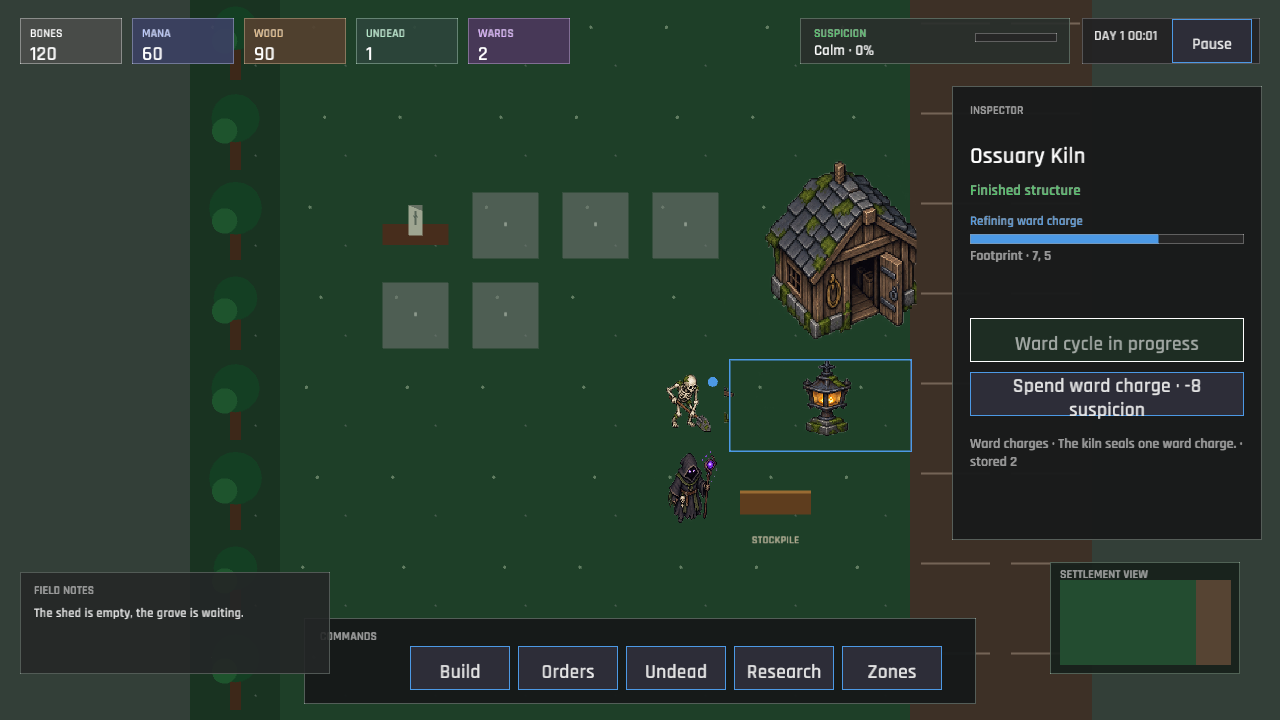
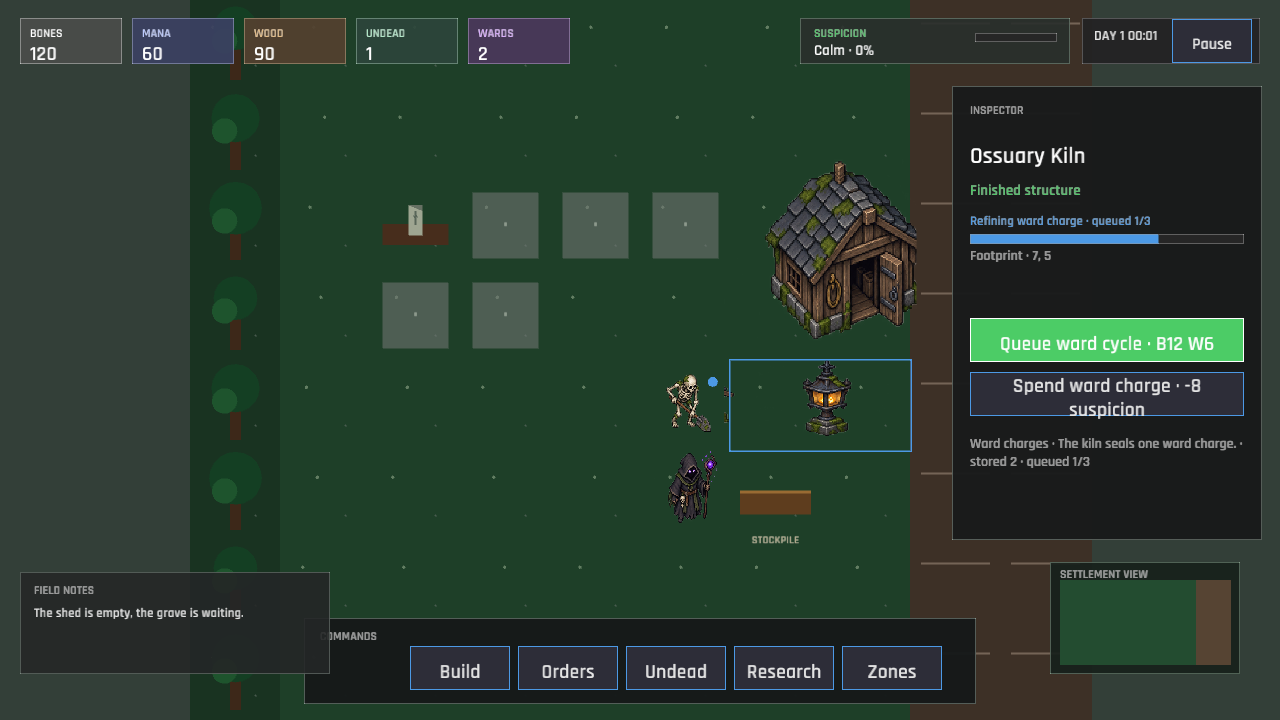
The kiln keeps a quiet queue beneath the cemetery lights (ward production queue, Ossuary Logistics)
A single kiln cycle gave Ossuary Logistics a one-click production action but no reason to remain at the workbench. Add a three-cycle reservation queue that removes bones and wood when each follow-up is committed, then rolls the worker directly into the next cycle when the current charge is sealed.

The kiln inspector now shows queued n/3, offers a touch-sized queue action while production is running, and continues to expose ward-charge spending as a suspicion response. Save defaults preserve the queue shape for existing cemeteries, and tests cover automatic rollover plus the full-queue no-spend invariant.

cargo fmt, cargo test (34 tests), strict Clippy, diff checks, production capture, and the default Windows/WebGL publisher pass. Preview deployment and catalog sync complete; the optional local Project Roost tracking endpoint still refuses its connection.

Changed region(s): [[0.75, 0.4278, 0.9688, 0.5194], [0.8438, 0.3056, 0.9062, 0.3361], [0.8125, 0.6111, 0.8438, 0.6722]]

diff --git a/src/engine/progression.rs b/src/engine/progression.rs
@@ -7,6 +7,8 @@ use crate::state::{
 };
 use macroquad_toolkit::grid::TilePos;
 
+pub const MAX_PRODUCTION_QUEUE: usize = 3;
+
 pub fn queue_building(
     session: &mut GameSession,
     data: &GameData,
@@ -177,14 +179,16 @@ pub fn start_production(
     if !session.has_building(kind) {
         return Err("The kiln must be complete before it can refine wards.".to_owned());
     }
-    if session.progress.production.is_some() {
-        return Err("The ossuary kiln is already refining a ward.".to_owned());
-    }
     let recipe = data
         .buildings
         .get(kind.id())
         .and_then(|building| building.production.as_ref())
         .ok_or_else(|| "That structure has no production recipe.".to_owned())?;
+    if session.progress.production.is_some()
+        && session.progress.production_queue >= MAX_PRODUCTION_QUEUE
+    {
+        return Err("The kiln's ward queue is full.".to_owned());
+    }
     if session.economy.bones < recipe.bones_cost || session.economy.wood < recipe.wood_cost {
         return Err(format!(
             "Need {} bones and {} wood to load the kiln.",
@@ -193,11 +197,16 @@ pub fn start_production(
     }
     session.economy.bones -= recipe.bones_cost;
     session.economy.wood -= recipe.wood_cost;
-    session.progress.production = Some(ProductionOrder {
-        building: kind,
-        progress: 0.0,
-    });
-    session.add_feed("The Ossuary Kiln is loaded; assign a worker to Refine Wards.");
+    if session.progress.production.is_some() {
+        session.progress.production_queue += 1;
+        session.add_feed("Another ward cycle is reserved in the kiln.");
+    } else {
+        session.progress.production = Some(ProductionOrder {
+            building: kind,
+            progress: 0.0,
+        });
+        session.add_feed("The Ossuary Kiln is loaded; assign a worker to Refine Wards.");
+    }
     Ok(())
 }
 
@@ -214,10 +223,25 @@ pub fn advance_production(session: &mut GameSession, data: &GameData, dt: f32) -
         return None;
     }
     session.economy.ward_charges += recipe.output_amount;
-    session.progress.production = None;
+    let next_cycle = session.progress.production_queue > 0;
+    if next_cycle {
+        session.progress.production_queue -= 1;
+        session.progress.production = Some(ProductionOrder {
+            building: order.building,
+            progress: 0.0,
+        });
+    } else {
+        session.progress.production = None;
+    }
     let message = format!(
-        "{} Ward charge ready. {}",
-        recipe.output_amount, recipe.effect_text
+        "{} Ward charge ready. {}{}",
+        recipe.output_amount,
+        recipe.effect_text,
+        if next_cycle {
+            " Next reserved cycle begins."
+        } else {
+            ""
+        }
     );
     session.add_feed(message.clone());
     Some(message)

diff --git a/src/ui/hud.rs b/src/ui/hud.rs
@@ -555,7 +555,11 @@ fn draw_building_inspector(
                 .and_then(|def| def.production.as_ref())
                 .map_or(8.0, |recipe| recipe.seconds);
             draw_text_block(
-                "Refining ward charge",
+                &format!(
+                    "Refining ward charge · queued {}/{}",
+                    ctx.session.progress.production_queue,
+                    crate::engine::progression::MAX_PRODUCTION_QUEUE
+                ),
                 panel.x + 18.0,
                 panel.y + 126.0,
                 panel.w - 36.0,
@@ -630,16 +634,24 @@ fn draw_building_inspector(
                 .production
                 .as_ref()
                 .is_some_and(|order| order.building == building.kind);
+            let queued = ctx.session.progress.production_queue;
             let label = if active {
-                "Ward cycle in progress".to_owned()
+                if queued < crate::engine::progression::MAX_PRODUCTION_QUEUE {
+                    format!(
+                        "Queue ward cycle · B{} W{}",
+                        recipe.bones_cost, recipe.wood_cost
+                    )
+                } else {
+                    "Ward queue full".to_owned()
+                }
             } else {
                 format!("Load kiln · B{} W{}", recipe.bones_cost, recipe.wood_cost)
             };
             if virtual_button(
                 Rect::new(panel.x + 18.0, panel.y + 232.0, panel.w - 36.0, 44.0),
                 &label,
-                !active
-                    && ctx.session.phase == GamePhase::Playing
+                ctx.session.phase == GamePhase::Playing
+                    && queued < crate::engine::progression::MAX_PRODUCTION_QUEUE
                     && ctx.session.economy.bones >= recipe.bones_cost
                     && ctx.session.economy.wood >= recipe.wood_cost,
                 ButtonTone::Positive,
@@ -658,8 +670,11 @@ fn draw_building_inspector(
             }
             draw_text_block(
                 &format!(
-                    "Ward charges · {} · stored {}",
-                    recipe.effect_text, ctx.session.economy.ward_charges
+                    "Ward charges · {} · stored {} · queued {}/{}",
+                    recipe.effect_text,
+                    ctx.session.economy.ward_charges,
+                    queued,
+                    crate::engine::progression::MAX_PRODUCTION_QUEUE
                 ),
                 panel.x + 18.0,
                 panel.y + 348.0,

diff --git a/src/engine/progression/tests.rs b/src/engine/progression/tests.rs
@@ -120,3 +120,42 @@ fn buildings_cannot_cover_graves_or_the_forest_edge() {
     )
     .is_err());
 }
+
+#[test]
+fn kiln_queue_rolls_into_the_next_reserved_cycle() {
+    let data = crate::data::GameData::load().unwrap();
+    let mut session = GameSession::new(&data.config);
+    session.economy.bones = 100;
+    session.economy.wood = 100;
+    session.research.completed = vec![Technology::Gravecraft, Technology::OssuaryLogistics];
+    queue_building(&mut session, &data, BuildingKind::OssuaryKiln).unwrap();
+    advance_construction(&mut session, &data, 14.0);
+    start_production(&mut session, &data, BuildingKind::OssuaryKiln).unwrap();
+    start_production(&mut session, &data, BuildingKind::OssuaryKiln).unwrap();
+    assert_eq!(session.progress.production_queue, 1);
+    advance_production(&mut session, &data, 8.0);
+    assert_eq!(session.economy.ward_charges, 1);
+    assert!(session.progress.production.is_some());
+    advance_production(&mut session, &data, 8.0);
+    assert_eq!(session.economy.ward_charges, 2);
+    assert!(session.progress.production.is_none());
+}
+
+#[test]
+fn full_kiln_queue_does_not_spend_more_materials() {
+    let data = crate::data::GameData::load().unwrap();
+    let mut session = GameSession::new(&data.config);
+    session.economy.bones = 100;
+    session.economy.wood = 100;
+    session.research.completed = vec![Technology::Gravecraft, Technology::OssuaryLogistics];
+    queue_building(&mut session, &data, BuildingKind::OssuaryKiln).unwrap();
+    advance_construction(&mut session, &data, 14.0);
+    for _ in 0..=MAX_PRODUCTION_QUEUE {
+        start_production(&mut session, &data, BuildingKind::OssuaryKiln).unwrap();
+    }
+    let bones = session.economy.bones;
+    let wood = session.economy.wood;
+    assert!(start_production(&mut session, &data, BuildingKind::OssuaryKiln).is_err());
+    assert_eq!(session.economy.bones, bones);
+    assert_eq!(session.economy.wood, wood);
+}

diff --git a/src/state.rs b/src/state.rs
@@ -418,6 +418,8 @@ pub struct ProgressState {
     pub first_building_started: bool,
     #[serde(default)]
     pub production: Option<ProductionOrder>,
+    #[serde(default)]
+    pub production_queue: usize,
 }
 
 #[derive(Debug, Clone, Serialize, Deserialize)]
@@ -539,6 +541,7 @@ impl GameSession {
                 first_corpse_found: false,
                 first_building_started: false,
                 production: None,
+                production_queue: 0,
             },
             research: ResearchState::default(),
             rng: SeededRng::new(config.starting_seed),

diff --git a/src/game.rs b/src/game.rs
@@ -266,6 +266,7 @@ impl Game {
             building: BuildingKind::OssuaryKiln,
             progress: 4.0,
         });
+        self.session.progress.production_queue = 1;
         self.session.workforce.workers[0].assignment = JobKind::Refine;
         self.session.workforce.workers[0].status = WorkerStatus::Working;
         self.session.workforce.workers[0].position = TilePos::new(5, 4);

diff --git a/docs/visual-direction-and-ui-plan.md b/docs/visual-direction-and-ui-plan.md
@@ -104,7 +104,7 @@ Do not add conventional food and housing needs automatically. If later design re
 
 ## Current prototype and remaining direction
 
-The current game has a 10 × 8 world, six authored grave positions, one starting skeleton, three building types, jobs, repeat priorities, corpse qualities, suspicion events, versioned save support, a selectable necromancer, positioned buildings, four research technologies, work areas, basic deterministic worker routing, an Ossuary Kiln production recipe, and a settlement overview. The sprite sheet is registered through the texture manifest and falls back to an obvious placeholder when unavailable. The current victory condition ends the slice after the small cemetery is established; richer linked-storage routing and district simulation remain future work.
+The current game has a 10 × 8 world, six authored grave positions, one starting skeleton, three building types, jobs, repeat priorities, corpse qualities, suspicion events, versioned save support, a selectable necromancer, positioned buildings, four research technologies, work areas, basic deterministic worker routing, an Ossuary Kiln production recipe with a three-cycle queue, and a settlement overview. The sprite sheet is registered through the texture manifest and falls back to an obvious placeholder when unavailable. The current victory condition ends the slice after the small cemetery is established; richer linked-storage routing and district simulation remain future work.
 
 | Implemented foundation | Remaining direction |
 | --- | --- |

diff --git a/gdd.md b/gdd.md
@@ -98,6 +98,11 @@ The kiln's first specialized production loop is playable, while district
 policy, larger populations, trade, farms, housing, and additional biomes remain
 deliberately deferred from the current victory slice.
 
+The Ossuary Kiln loads one ward-charge cycle at a time and accepts up to three
+reserved follow-up cycles. Reserved materials are removed when the cycle is
+queued, so the player can see the true available stock before committing to a
+longer production run.
+
 ## 7. UI and interaction flow
 
 The main menu shows the game identity and visible **New Game** / **Continue**
